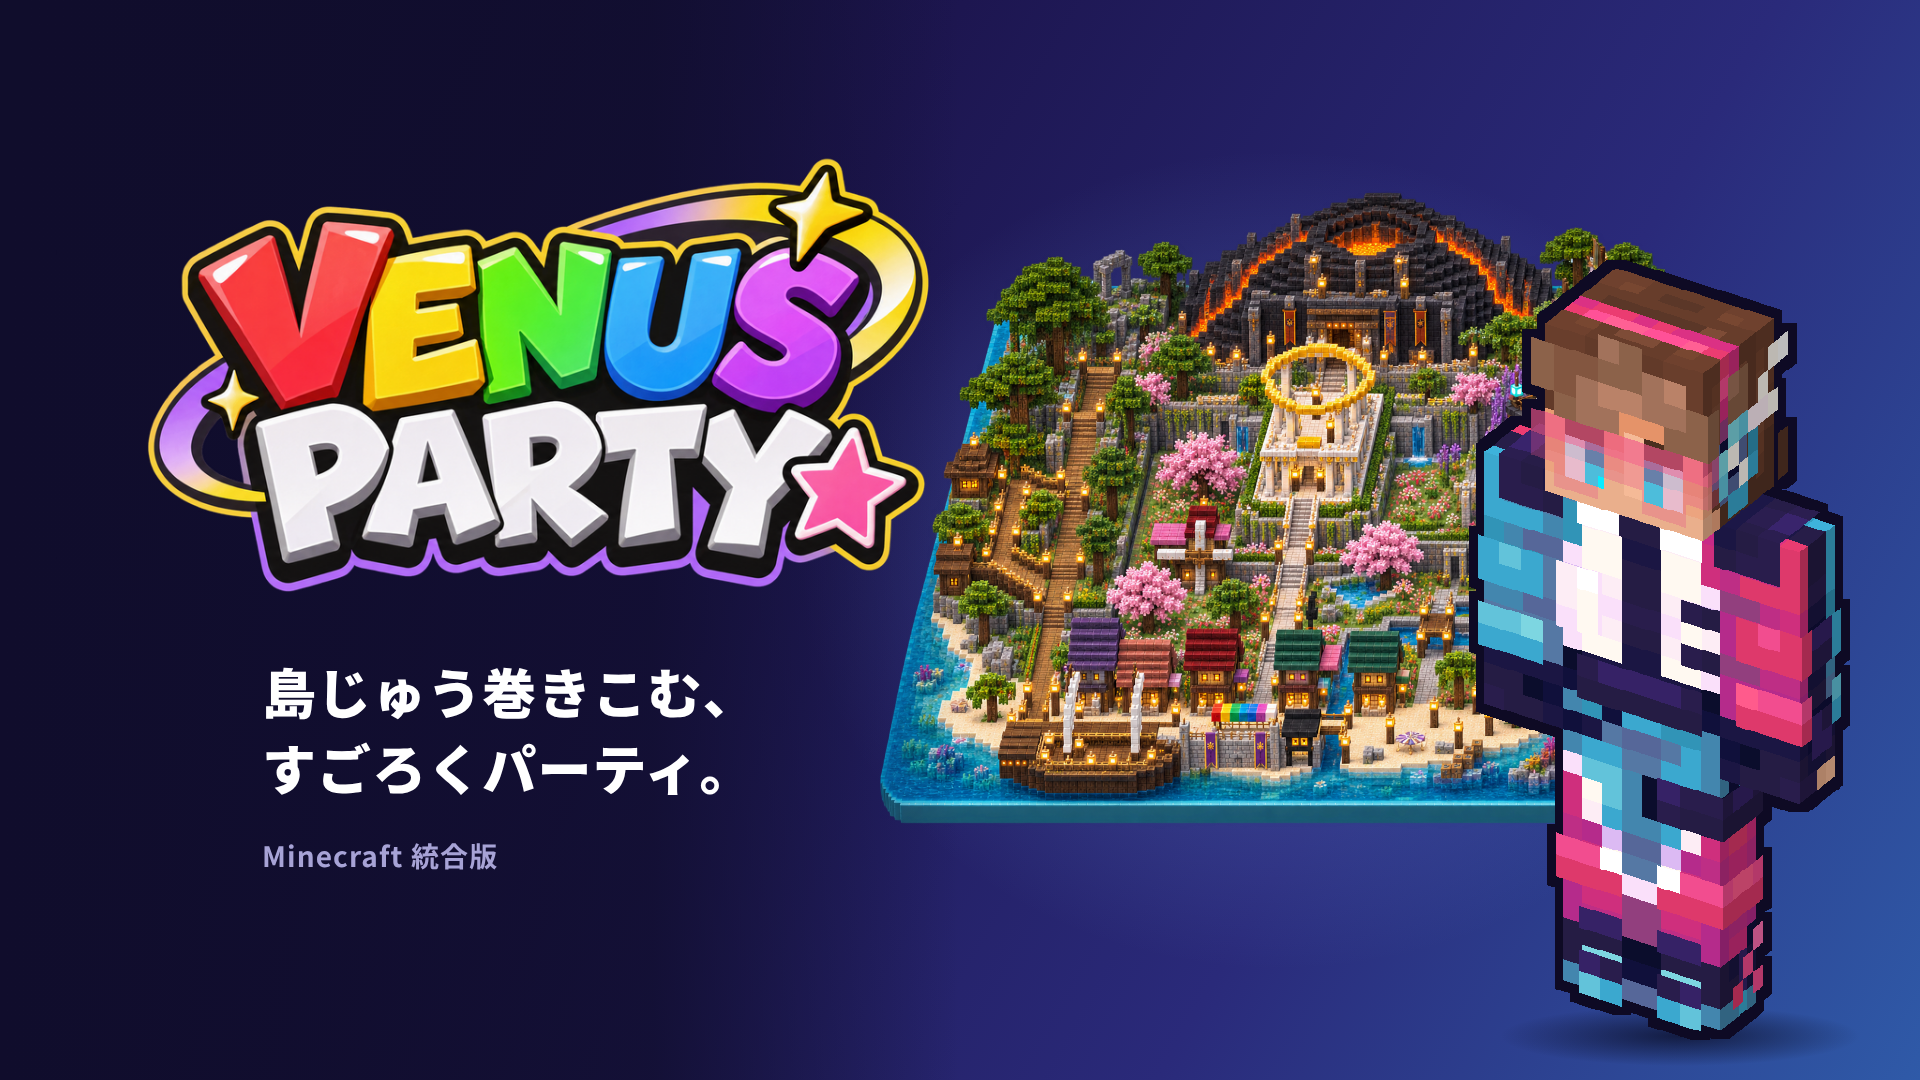
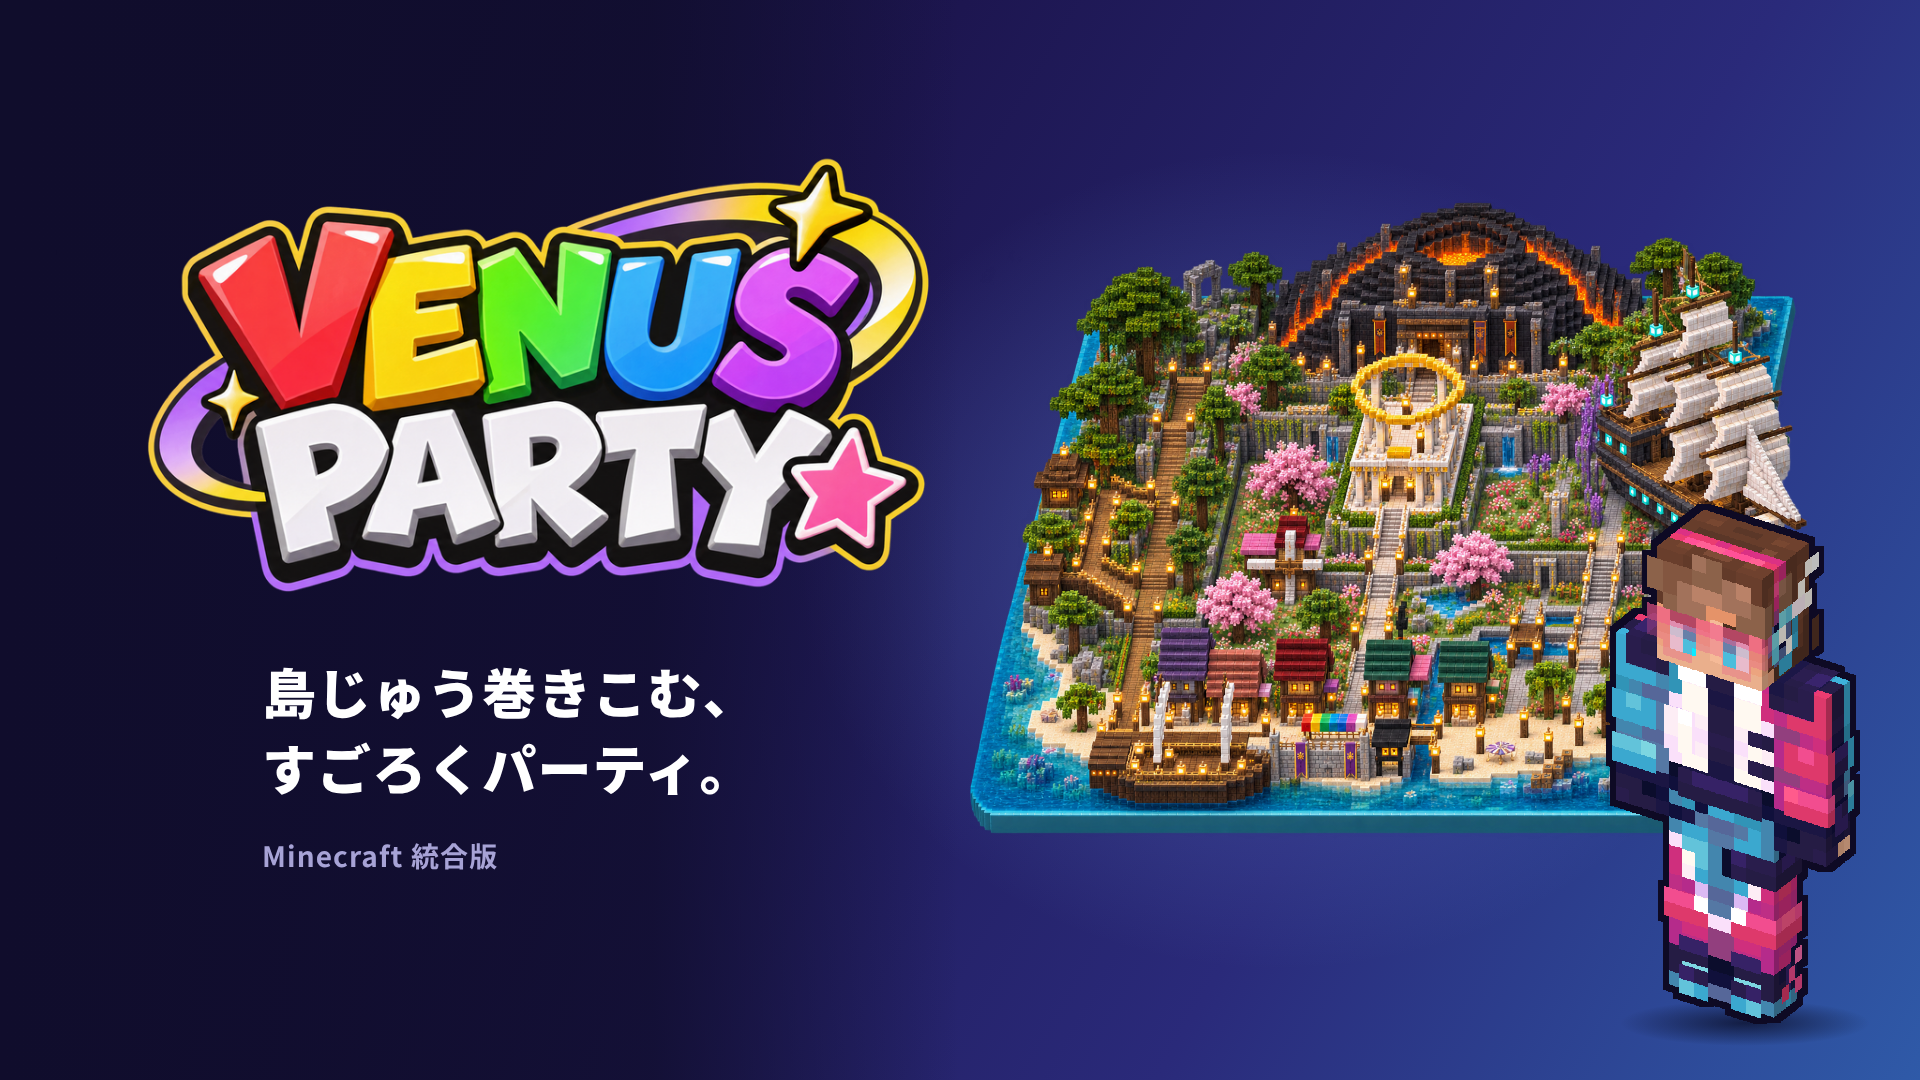
紹介画像の表紙: DJ を小さく、島を右へ
Claude-Session: https://claude.ai/code/session_01B2FgibtyYDajcCp47YzWMQ

Changed region(s): [[0.4375, 0.1833, 0.9688, 0.9778]]

diff --git a/mpl/promo/01_kv.html b/mpl/promo/01_kv.html
@@ -18,10 +18,10 @@ body{background:radial-gradient(1400px 900px at 70% 30%,#231a55 0%,var(--bg1) 70
 
 body{background:linear-gradient(120deg,#100d2c 0%,#1d1650 38%,#2a2a7a 70%,#2f5aa8 100%)}
 .glow{position:absolute;right:160px;top:150px;width:960px;height:820px;background:radial-gradient(closest-side,rgba(120,170,255,.35),rgba(120,170,255,0))}
-.isl{position:absolute;right:200px;top:190px;width:840px}   /* 島は全部見せる(画面の外に出さない) */
+.isl{position:absolute;right:110px;top:200px;width:840px}   /* 島は全部見せる(画面の外に出さない) */
 .fade{position:absolute;inset:0;background:linear-gradient(90deg,#100d2c 0%,rgba(16,13,44,.8) 34%,rgba(16,13,44,0) 50%)}
-.dj{position:absolute;right:70px;bottom:40px;height:780px;image-rendering:pixelated}
-.sh{position:absolute;right:60px;bottom:14px;width:360px;height:60px;border-radius:50%;background:radial-gradient(closest-side,rgba(5,4,20,.65),rgba(5,4,20,0))}
+.dj{position:absolute;right:60px;bottom:56px;height:520px;image-rendering:pixelated}
+.sh{position:absolute;right:50px;bottom:34px;width:250px;height:46px;border-radius:50%;background:radial-gradient(closest-side,rgba(5,4,20,.65),rgba(5,4,20,0))}
 .left{position:absolute;left:56px;top:150px;width:960px}
 .logo{display:block;width:960px}
 .left p{padding-left:206px}   /* PARTY の P の左はしにそろえる(ロゴの幅の 21.5%) */

diff --git a/tools/mpl_promo.py b/tools/mpl_promo.py
@@ -41,10 +41,10 @@ pages.append(page('01_kv', f'''
 ''', '''
 body{background:linear-gradient(120deg,#100d2c 0%,#1d1650 38%,#2a2a7a 70%,#2f5aa8 100%)}
 .glow{position:absolute;right:160px;top:150px;width:960px;height:820px;background:radial-gradient(closest-side,rgba(120,170,255,.35),rgba(120,170,255,0))}
-.isl{position:absolute;right:200px;top:190px;width:840px}   /* 島は全部見せる(画面の外に出さない) */
+.isl{position:absolute;right:110px;top:200px;width:840px}   /* 島は全部見せる(画面の外に出さない) */
 .fade{position:absolute;inset:0;background:linear-gradient(90deg,#100d2c 0%,rgba(16,13,44,.8) 34%,rgba(16,13,44,0) 50%)}
-.dj{position:absolute;right:70px;bottom:40px;height:780px;image-rendering:pixelated}
-.sh{position:absolute;right:60px;bottom:14px;width:360px;height:60px;border-radius:50%;background:radial-gradient(closest-side,rgba(5,4,20,.65),rgba(5,4,20,0))}
+.dj{position:absolute;right:60px;bottom:56px;height:520px;image-rendering:pixelated}
+.sh{position:absolute;right:50px;bottom:34px;width:250px;height:46px;border-radius:50%;background:radial-gradient(closest-side,rgba(5,4,20,.65),rgba(5,4,20,0))}
 .left{position:absolute;left:56px;top:150px;width:960px}
 .logo{display:block;width:960px}
 .left p{padding-left:206px}   /* PARTY の P の左はしにそろえる(ロゴの幅の 21.5%) */
